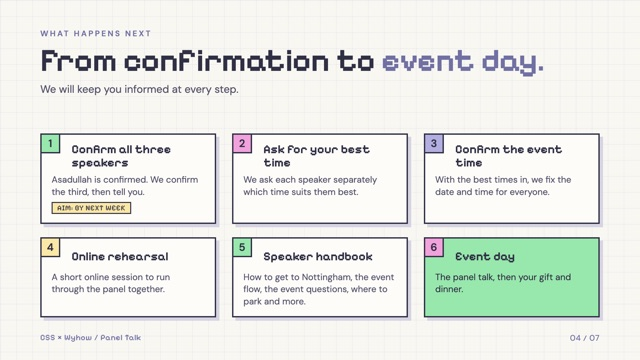
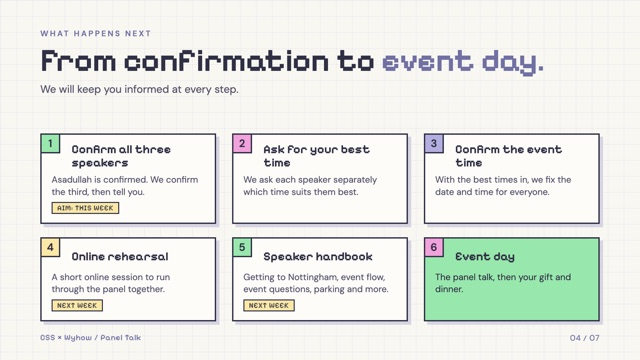
Timeline: aim this week, rehearsal and handbook next week; all speakers confirmed in Asadullah's deck

Changed region(s): [[0.0625, 0.7639, 0.9375, 0.9167], [0.125, 0.55, 0.2188, 0.6111]]

diff --git a/external/02-asadullah-panel/index.html b/external/02-asadullah-panel/index.html
@@ -189,18 +189,19 @@
           <div class="info"><h3>Asadullah</h3><p class="role">Data Scientist, Cognizant</p></div>
         </article>
         <article class="person pop" style="--d:4">
-          <span class="stamp invited" aria-hidden="true">INVITED</span>
+          <span class="stamp" aria-hidden="true">CONFIRMED</span>
           <div class="bar"><span>speaker_02</span><span class="lights" aria-hidden="true"><i></i><i></i><i></i></span></div>
           <img class="photo" src="wyhow.jpg" alt="Photo of Wyhow">
           <div class="info"><h3>Wyhow</h3><p class="role">Solution Engineer, Microsoft</p></div>
         </article>
-        <article class="person open pop" style="--d:5">
+        <article class="person pop" style="--d:5">
+          <span class="stamp" aria-hidden="true">CONFIRMED</span>
           <div class="bar"><span>speaker_03</span><span class="lights" aria-hidden="true"><i></i><i></i><i></i></span></div>
-          <div class="blank" aria-hidden="true">?</div>
-          <div class="info"><h3>To be confirmed</h3><p class="role">Announced once confirmed</p></div>
+          <img class="photo" src="matthewpang.jpg" alt="Photo of Matthew Pang">
+          <div class="info"><h3>Matthew Pang</h3><p class="role">Partner Technical Specialist, IBM</p></div>
         </article>
       </div>
-      <p class="facts rise" style="--d:6"><span><b>Venue</b>University of Nottingham campus</span><span><b>Date</b>Set once all three speakers are confirmed</span><span><b>Promotion</b>We post on LinkedIn and Instagram, before and after the event</span></p>
+      <p class="facts rise" style="--d:6"><span><b>Venue</b>University of Nottingham campus</span><span><b>Date</b>Set from all three speakers' best times</span><span><b>Promotion</b>We post on LinkedIn and Instagram, before and after the event</span></p>
       <div class="footer"><span>CSS × Asadullah / Panel Talk</span><span>02 / 07</span></div>
     </section>
 
@@ -257,11 +258,11 @@
         <p class="lede rise" style="--d:2;font-size:32px">We will keep you informed at every step.</p>
       </div>
       <ol class="road">
-        <li class="stop pop" style="--d:3"><span class="n" style="--c:var(--mint)">1</span><h3>Confirm all three speakers</h3><p>You are confirmed. We confirm the other two speakers, then tell you.</p><span class="chip">AIM: BY NEXT WEEK</span></li>
+        <li class="stop pop" style="--d:3"><span class="n" style="--c:var(--mint)">1</span><h3>Confirm all three speakers</h3><p>Asadullah, Wyhow and Matthew Pang are all confirmed.</p><span class="chip">DONE</span></li>
         <li class="stop pop" style="--d:4"><span class="n" style="--c:var(--pink)">2</span><h3>Ask for your best time</h3><p>We ask each speaker separately which time suits them best.</p></li>
         <li class="stop pop" style="--d:5"><span class="n" style="--c:var(--lavender)">3</span><h3>Confirm the event time</h3><p>With the best times in, we fix the date and time for everyone.</p></li>
-        <li class="stop pop" style="--d:6"><span class="n" style="--c:var(--sun)">4</span><h3>Online rehearsal</h3><p>A short online session to run through the panel together.</p></li>
-        <li class="stop pop" style="--d:7"><span class="n" style="--c:var(--mint)">5</span><h3>Speaker handbook</h3><p>How to get to Nottingham, the event flow, the event questions, where to park and more.</p></li>
+        <li class="stop pop" style="--d:6"><span class="n" style="--c:var(--sun)">4</span><h3>Online rehearsal</h3><p>A short online session to run through the panel together.</p><span class="chip">NEXT WEEK</span></li>
+        <li class="stop pop" style="--d:7"><span class="n" style="--c:var(--mint)">5</span><h3>Speaker handbook</h3><p>Getting to Nottingham, event flow, event questions, parking and more.</p><span class="chip">NEXT WEEK</span></li>
         <li class="stop final pop" style="--d:8"><span class="n" style="--c:var(--pink)">6</span><h3>Event day</h3><p>The panel talk, then your gift and dinner.</p></li>
       </ol>
       <div class="footer"><span>CSS × Asadullah / Panel Talk</span><span>04 / 07</span></div>
@@ -326,7 +327,7 @@
         <p class="lede rise" style="--d:2">Short answers are fine. Nothing here is final.</p>
       </div>
       <ol class="asks">
-        <li class="ask rise" style="--d:3"><span class="n" style="--c:var(--mint)">1</span><div><b>Your place on the panel</b><span>Thank you for confirming. Date to follow once all three are set.</span></div></li>
+        <li class="ask rise" style="--d:3"><span class="n" style="--c:var(--mint)">1</span><div><b>Your place on the panel</b><span>Thank you for confirming. All three speakers are set; date to follow.</span></div></li>
         <li class="ask rise" style="--d:4"><span class="n" style="--c:var(--pink)">2</span><div><b>The official MOU</b><span>Whether you would like us to arrange one.</span></div></li>
         <li class="ask rise" style="--d:5"><span class="n" style="--c:var(--lavender)">3</span><div><b>Travel by fuel or Grab</b><span>Reimbursed up to RM40, against your receipt.</span></div></li>
         <li class="ask rise" style="--d:6"><span class="n" style="--c:var(--sun)">4</span><div><b>Days or times that do not work</b><span>This helps when we ask every speaker for a best time.</span></div></li>
@@ -335,7 +336,7 @@
         <div class="bar"><span>next_steps</span><span class="lights" aria-hidden="true"><i></i><i></i><i></i></span></div>
         <div class="body">
           <p class="k">&gt; What we do next</p>
-          <p>We confirm the other two speakers, aiming for next week, then come back to you with the plan.</p>
+          <p>All three speakers are confirmed. We now ask each speaker for their best time, then come back to you with the plan.</p>
           <p class="thanks">Thank you, Asadullah.</p>
           <p class="cong">Congratulations again on your marriage!</p>
         </div>

diff --git a/external/03-matthew-pang-panel/index.html b/external/03-matthew-pang-panel/index.html
@@ -257,11 +257,11 @@
         <p class="lede rise" style="--d:2;font-size:32px">We will keep you informed at every step.</p>
       </div>
       <ol class="road">
-        <li class="stop pop" style="--d:3"><span class="n" style="--c:var(--mint)">1</span><h3>Confirm all three speakers</h3><p>Asadullah and Wyhow are confirmed. You complete the panel.</p><span class="chip">AIM: BY NEXT WEEK</span></li>
+        <li class="stop pop" style="--d:3"><span class="n" style="--c:var(--mint)">1</span><h3>Confirm all three speakers</h3><p>Asadullah and Wyhow are confirmed. You complete the panel.</p><span class="chip">AIM: THIS WEEK</span></li>
         <li class="stop pop" style="--d:4"><span class="n" style="--c:var(--pink)">2</span><h3>Ask for your best time</h3><p>We ask each speaker separately which time suits them best.</p></li>
         <li class="stop pop" style="--d:5"><span class="n" style="--c:var(--lavender)">3</span><h3>Confirm the event time</h3><p>With the best times in, we fix the date and time for everyone.</p></li>
-        <li class="stop pop" style="--d:6"><span class="n" style="--c:var(--sun)">4</span><h3>Online rehearsal</h3><p>A short online session to run through the panel together.</p></li>
-        <li class="stop pop" style="--d:7"><span class="n" style="--c:var(--mint)">5</span><h3>Speaker handbook</h3><p>How to get to Nottingham, the event flow, the event questions, where to park and more.</p></li>
+        <li class="stop pop" style="--d:6"><span class="n" style="--c:var(--sun)">4</span><h3>Online rehearsal</h3><p>A short online session to run through the panel together.</p><span class="chip">NEXT WEEK</span></li>
+        <li class="stop pop" style="--d:7"><span class="n" style="--c:var(--mint)">5</span><h3>Speaker handbook</h3><p>Getting to Nottingham, event flow, event questions, parking and more.</p><span class="chip">NEXT WEEK</span></li>
         <li class="stop final pop" style="--d:8"><span class="n" style="--c:var(--pink)">6</span><h3>Event day</h3><p>The panel talk, then your gift and dinner.</p></li>
       </ol>
       <div class="footer"><span>CSS × Matthew Pang / Panel Talk</span><span>04 / 07</span></div>
@@ -335,7 +335,7 @@
         <div class="bar"><span>next_steps</span><span class="lights" aria-hidden="true"><i></i><i></i><i></i></span></div>
         <div class="body">
           <p class="k">&gt; What we do next</p>
-          <p>We would love to confirm you as our third speaker, aiming for next week, then come back to you with the plan.</p>
+          <p>We would love to confirm you as our third speaker, aiming for this week, then come back to you with the plan.</p>
           <p class="thanks">Thank you, Matthew.</p>
         </div>
       </div>

diff --git a/external/01-wyhow-panel/index.html b/external/01-wyhow-panel/index.html
@@ -256,11 +256,11 @@
         <p class="lede rise" style="--d:2;font-size:32px">We will keep you informed at every step.</p>
       </div>
       <ol class="road">
-        <li class="stop pop" style="--d:3"><span class="n" style="--c:var(--mint)">1</span><h3>Confirm all three speakers</h3><p>Asadullah is confirmed. We confirm the third, then tell you.</p><span class="chip">AIM: BY NEXT WEEK</span></li>
+        <li class="stop pop" style="--d:3"><span class="n" style="--c:var(--mint)">1</span><h3>Confirm all three speakers</h3><p>Asadullah is confirmed. We confirm the third, then tell you.</p><span class="chip">AIM: THIS WEEK</span></li>
         <li class="stop pop" style="--d:4"><span class="n" style="--c:var(--pink)">2</span><h3>Ask for your best time</h3><p>We ask each speaker separately which time suits them best.</p></li>
         <li class="stop pop" style="--d:5"><span class="n" style="--c:var(--lavender)">3</span><h3>Confirm the event time</h3><p>With the best times in, we fix the date and time for everyone.</p></li>
-        <li class="stop pop" style="--d:6"><span class="n" style="--c:var(--sun)">4</span><h3>Online rehearsal</h3><p>A short online session to run through the panel together.</p></li>
-        <li class="stop pop" style="--d:7"><span class="n" style="--c:var(--mint)">5</span><h3>Speaker handbook</h3><p>How to get to Nottingham, the event flow, the event questions, where to park and more.</p></li>
+        <li class="stop pop" style="--d:6"><span class="n" style="--c:var(--sun)">4</span><h3>Online rehearsal</h3><p>A short online session to run through the panel together.</p><span class="chip">NEXT WEEK</span></li>
+        <li class="stop pop" style="--d:7"><span class="n" style="--c:var(--mint)">5</span><h3>Speaker handbook</h3><p>Getting to Nottingham, event flow, event questions, parking and more.</p><span class="chip">NEXT WEEK</span></li>
         <li class="stop final pop" style="--d:8"><span class="n" style="--c:var(--pink)">6</span><h3>Event day</h3><p>The panel talk, then your gift and dinner.</p></li>
       </ol>
       <div class="footer"><span>CSS × Wyhow / Panel Talk</span><span>04 / 07</span></div>
@@ -334,7 +334,7 @@
         <div class="bar"><span>next_steps</span><span class="lights" aria-hidden="true"><i></i><i></i><i></i></span></div>
         <div class="body">
           <p class="k">&gt; What we do next</p>
-          <p>We confirm our third speaker, aiming for next week, then come back to you with the plan.</p>
+          <p>We confirm our third speaker, aiming for this week, then come back to you with the plan.</p>
           <p class="thanks">Thank you, Wyhow.</p>
         </div>
       </div>
